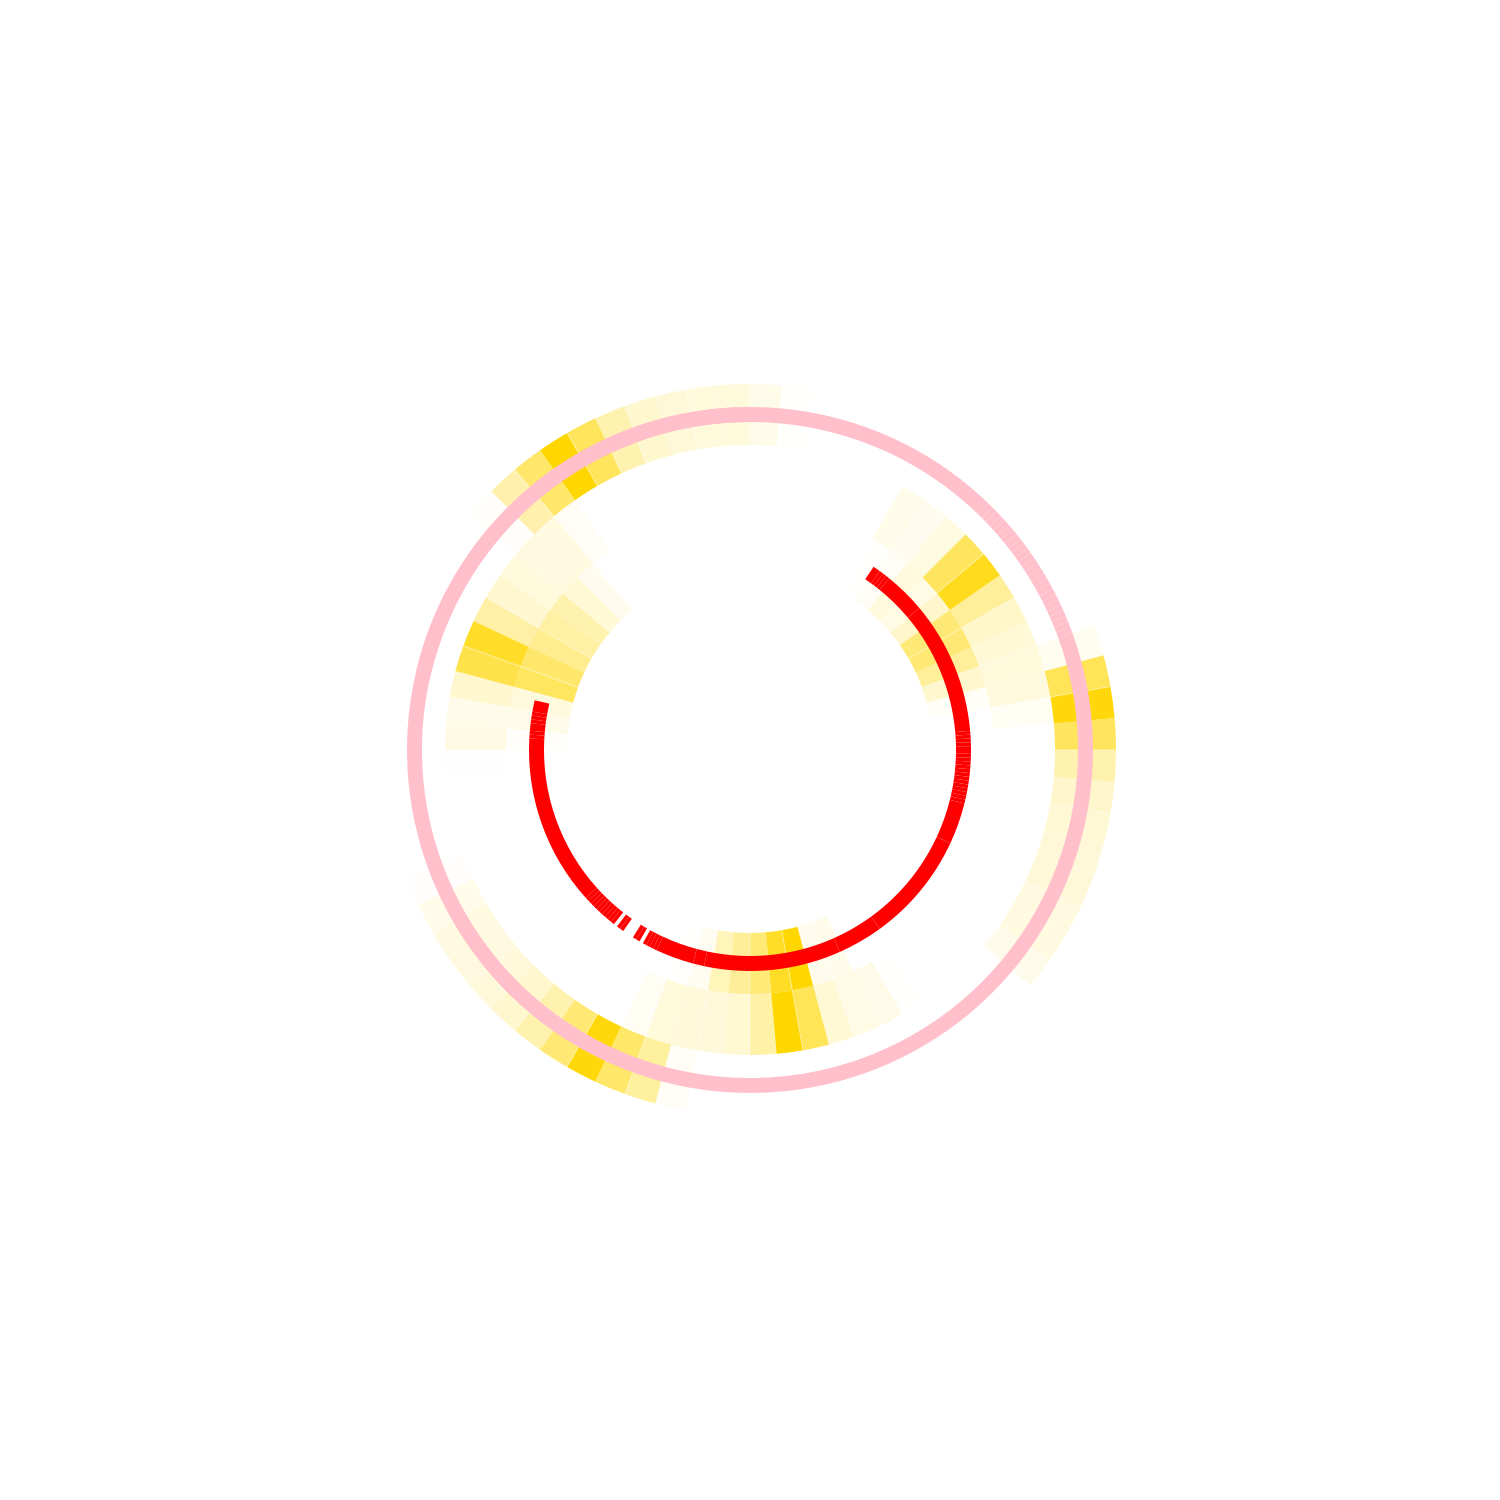
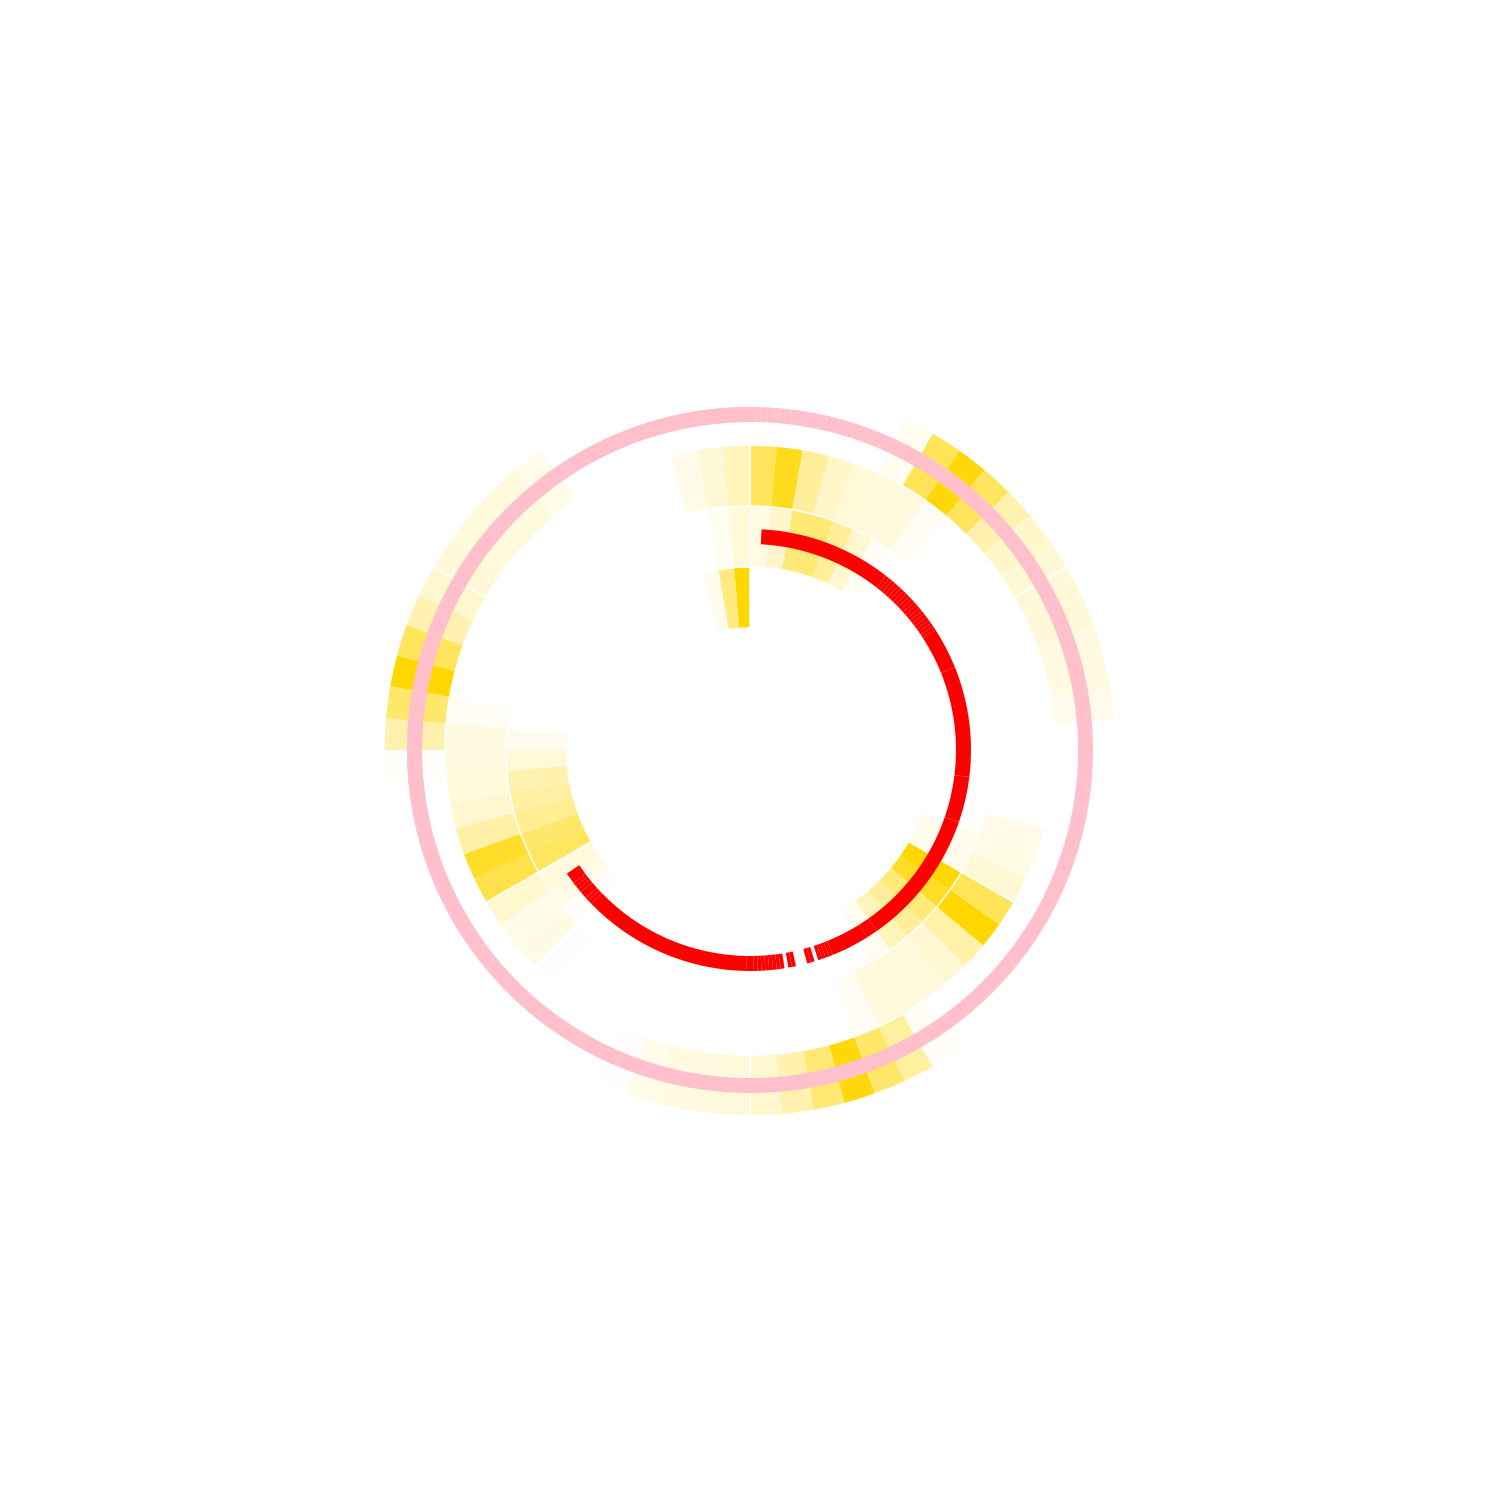
viz changes

Changed region(s): [[0.2453, 0.2453, 0.7667, 0.7667]]

diff --git a/backend/visualization/viz.py b/backend/visualization/viz.py
@@ -277,7 +277,7 @@ def text_curve(server_no, message, angle, spacing, ts):
         # Move halfway again
         arclength -= spacing/2
 
-def lines(interval):
+def lines(interval, sw, opacity):
         #for loop for lines 
     a = -(Pi/2)
     interval = (interval/72)*2*Pi
@@ -286,10 +286,17 @@ def lines(interval):
         yc = h/2 + ring_rad*2 * math.sin(a)
         x1 = w/2 + (radius-10) * math.cos(a)
         y1 = h/2 + (radius-10) * math.sin(a)
-        line = g.polyline(points=[(x1,y1), (xc,yc)], stroke_width=1, stroke=(1,1,1,0.4))
+        line = g.polyline(points=[(x1,y1), (xc,yc)], stroke_width=sw, stroke=(1,1,1,opacity))
         line.draw(surface)
         a = a + interval
     print("finished drawing lines")
+
+def circles(sw, opacity):
+    b = ring_rad*2
+    while b < (radius):
+        circ = g.circle(r=b, xy = [w/2, h/2], stroke=(1,1,1), stroke_width= 1.5)
+        circ.draw(surface)
+        b = b + ring_rad
 
 
 
@@ -380,7 +387,10 @@ for i, item in enumerate(ccData):
 sortPOE()
 print("dfPOE.shape", dfPOE.shape)
 print(dfPOE)
-lines(2)
+#lines(interval in house, stroke weight, opacity)
+lines(2, 1, 0.2)
+lines(12, 1.5, 1)
+circles(1.5, 1)
 # draw_server_arc(0, 0, Pi, (1,0,0))
 
 if dfPOE.shape[1] > 0:
@@ -431,7 +441,7 @@ foreground = Image.open("clock.png")
 # background.paste(foreground, (0, 0))
 # background.save("clock1.png")
 
-mask = Image.open('mask3.png').resize(background.size).convert('L')
+mask = Image.open('mask5.png').resize(background.size).convert('L')
 background.paste(foreground, (0, 0), mask)
 background.save("../../frontend/images/clock.png")
 # alphaBlended2 = Image.blend(foreground, background, alpha=.5)
